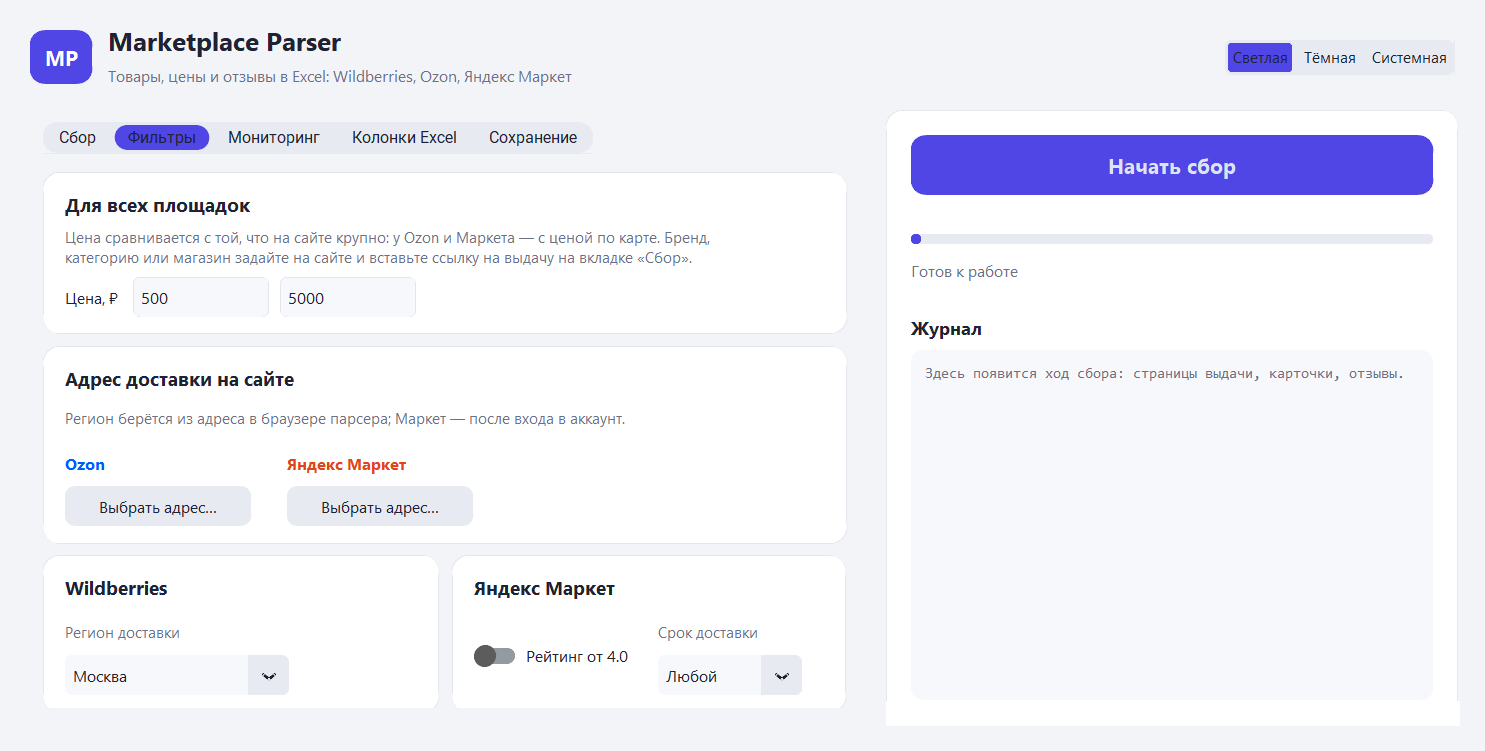
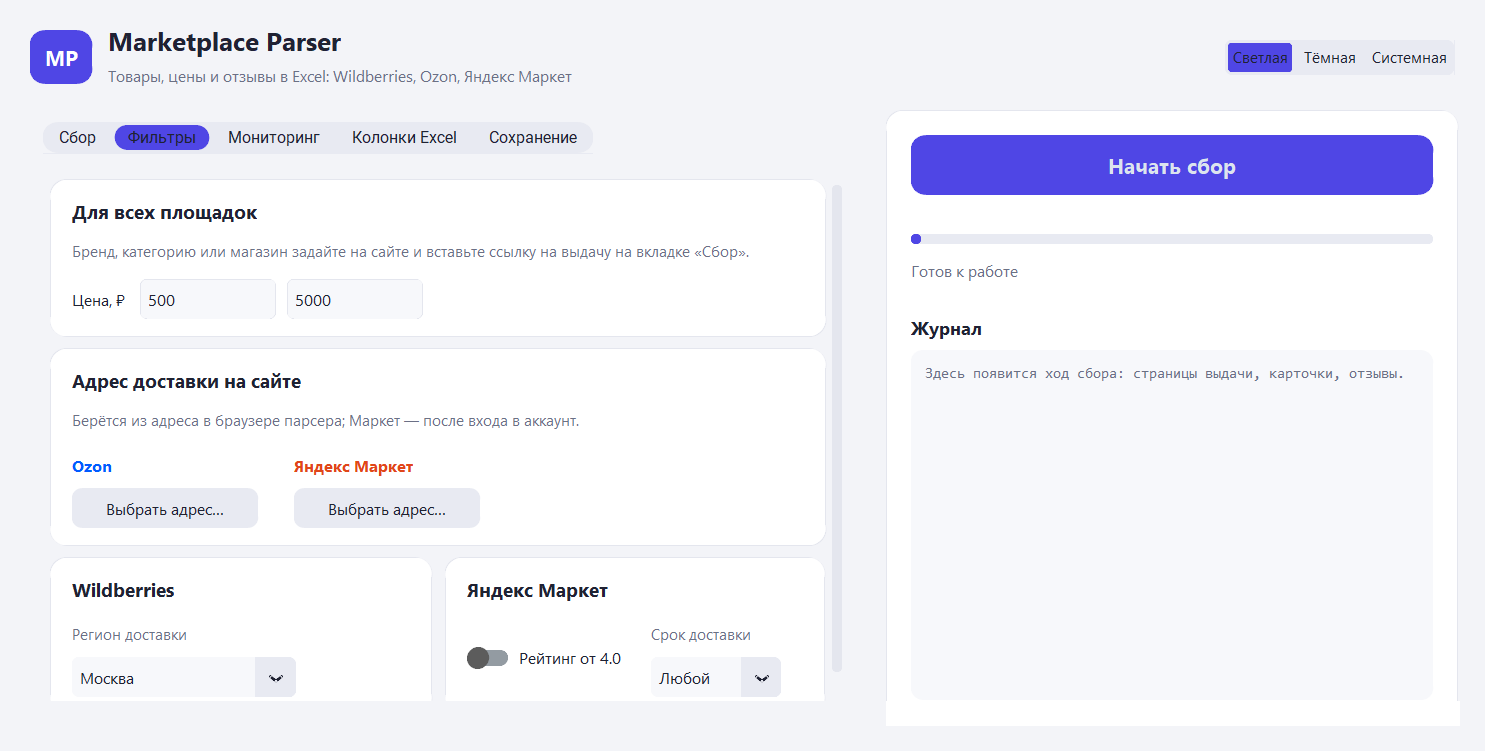
Вкладка «Фильтры» подстраивается под число площадок
Карточки площадок идут по две в ряд, поля внутри карточки переносятся на новую
строку, когда не помещаются по ширине, кнопки «Выбрать адрес…» собраны в одну
карточку. Сама вкладка прокручивается: сколько площадок установлено, заранее
неизвестно, а всё остальное окно по-прежнему помещается на экран целиком.

diff --git a/mpparser/gui/app.py b/mpparser/gui/app.py
@@ -217,10 +217,12 @@ class App(ctk.CTk):
         self.max_reviews.pack(side="left", padx=(24, 0))
         self._refresh_reviews_state()
 
-    def _build_filters(self, parent: ctk.CTkBaseClass) -> None:
+    def _build_filters(self, tab: ctk.CTkBaseClass) -> None:
+        # The number of marketplaces is not fixed, so this tab is the one place where scrolling is needed.
+        parent = ctk.CTkScrollableFrame(tab, fg_color="transparent", scrollbar_button_color=theme.CARD_BORDER)
+        parent.pack(fill="both", expand=True)
         common = SectionCard(parent, None, "Для всех площадок",
-                             hint="Цена сравнивается с той, что на сайте крупно: у Ozon и Маркета — с ценой по карте. "
-                                  "Бренд, категорию или магазин задайте на сайте и вставьте ссылку на выдачу "
+                             hint="Бренд, категорию или магазин задайте на сайте и вставьте ссылку на выдачу "
                                   "на вкладке «Сбор».")
         common.pack(fill="x", pady=(0, 8))
         row = ctk.CTkFrame(common.body, fg_color="transparent")
@@ -236,22 +238,26 @@ class App(ctk.CTk):
         self.option_widgets: dict[tuple[str, str], Any] = {}
         self.option_values: dict[tuple[str, str], list[str]] = {}
         self.option_labels: dict[tuple[str, str], ctk.CTkLabel] = {}
+        grid = ctk.CTkFrame(parent, fg_color="transparent")
+        grid.pack(fill="both", expand=True)
+        grid.grid_columnconfigure((0, 1), weight=1, uniform="filters")
+        cell = 0
+
+        # Buttons that open the site live together: for the user it is one and the same action.
         setups = [(mp, option) for mp in plugins.with_options() for option in mp.options if option.kind == "setup"]
         if setups:
-            card = SectionCard(parent, None, "Адрес доставки на сайте",
-                               hint="Регион берётся из адреса в браузере парсера; Маркет — после входа в аккаунт.")
-            card.pack(fill="x", pady=(0, 8))
+            card = SectionCard(grid, None, "Адрес доставки на сайте",
+                               hint="Берётся из адреса в браузере парсера; Маркет — после входа в аккаунт.")
+            card.grid(row=0, column=0, columnspan=2, sticky="new", pady=(0, 8))
             row = ctk.CTkFrame(card.body, fg_color="transparent")
             row.pack(fill="x")
             for marketplace, option in setups:
                 self._build_option(row, marketplace, option, with_title=True)
+            cell = 2  # the card spans both columns, so the marketplaces start on the next row
 
         with_filters = [mp for mp in plugins.with_options()
                         if any(option.kind != "setup" for option in mp.options)]
-        grid = ctk.CTkFrame(parent, fg_color="transparent")
-        grid.pack(fill="both", expand=True)
-        grid.grid_columnconfigure((0, 1), weight=1, uniform="filters")
-        for number, marketplace in enumerate(with_filters):
+        for number, marketplace in enumerate(with_filters, start=cell):
             self._build_marketplace_filters(grid, marketplace, row=number // 2, column=number % 2)
 
     # A filter card takes half of the window width; this is how much of it one control needs.
